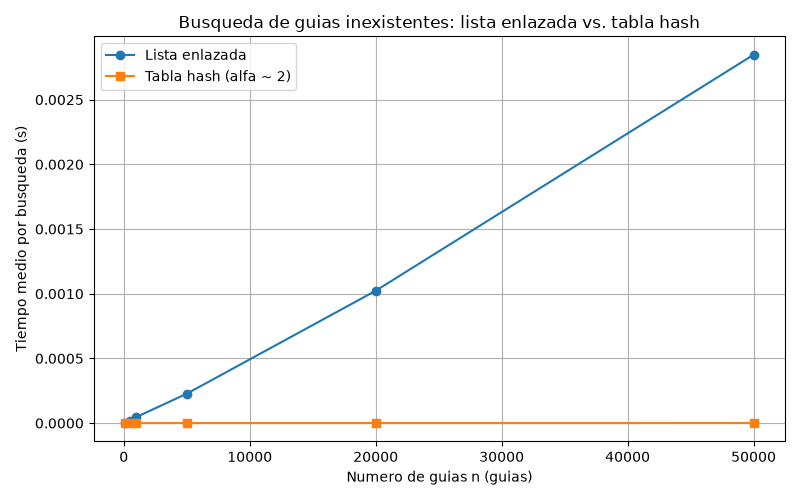
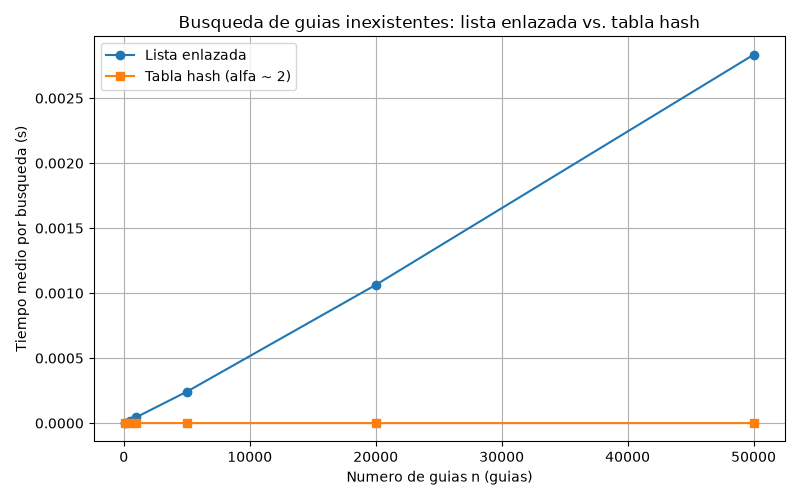
Agrega experimento B del efecto del factor de carga y su grafica

diff --git a/laboratorios/lab3-estructuras-datos/medicion.py b/laboratorios/lab3-estructuras-datos/medicion.py
@@ -4,10 +4,13 @@ Experimento A: mide con time.perf_counter el tiempo medio por busqueda de
 guias inexistentes en la lista y en la tabla (con alfa cercano a 2) para
 varios valores de n, verifica que ambas coinciden y produce
 graficas/lista_vs_tabla.png.
+
+Experimento B: con n fijo, construye tablas con distinto m para variar el
+factor de carga alfa, mide el tiempo medio por busqueda de guias
+inexistentes en cada una y produce graficas/tiempo_vs_alfa.png.
 """
 
 import random
-import statistics
 import time
 from pathlib import Path
 
@@ -19,8 +22,11 @@ import matplotlib.pyplot as plt
 from estructuras import ListaEnlazada, TablaHash
 
 TAMANOS = [100, 500, 1000, 5000, 20000, 50000]
+N_FIJO = 20000
+ALFAS = [0.25, 0.5, 1, 2, 4, 10]
 BUSQUEDAS = 200
 REPETICIONES = 3
+REPETICIONES_TABLA = 51
 MUESTRA_VERIFICACION = 100
 SEMILLA = 2026
 ESTADOS = ["en bodega", "en reparto", "entregado"]
@@ -144,8 +150,9 @@ def medir_busquedas(
 ) -> float:
     """Mide el tiempo medio por busqueda sobre una estructura.
 
-    Cronometra solo el ciclo de busquedas, repite la medicion y toma la
-    mediana para reducir el ruido del sistema operativo.
+    Cronometra solo el ciclo de busquedas, repite la medicion y toma el
+    minimo, que es la repeticion menos afectada por el ruido del sistema
+    operativo.
 
     Args:
         estructura: lista enlazada o tabla hash donde se busca.
@@ -153,7 +160,8 @@ def medir_busquedas(
         repeticiones: cuantas veces se repite la medicion completa.
 
     Returns:
-        La mediana del tiempo medio por busqueda, en segundos.
+        El menor tiempo medio por busqueda entre las repeticiones, en
+        segundos.
     """
     muestras = []
     for _ in range(repeticiones):
@@ -161,7 +169,7 @@ def medir_busquedas(
         for guia in guias:
             estructura.buscar(guia)
         muestras.append((time.perf_counter() - inicio) / len(guias))
-    return statistics.median(muestras)
+    return min(muestras)
 
 
 def graficar_lista_vs_tabla(
@@ -203,7 +211,7 @@ def experimento_a() -> None:
         inexistentes = generar_guias_inexistentes(existentes, BUSQUEDAS)
 
         t_lista = medir_busquedas(lista, inexistentes, REPETICIONES)
-        t_tabla = medir_busquedas(tabla, inexistentes, REPETICIONES)
+        t_tabla = medir_busquedas(tabla, inexistentes, REPETICIONES_TABLA)
         tiempos_lista.append(t_lista)
         tiempos_tabla.append(t_tabla)
         print(
@@ -215,11 +223,62 @@ def experimento_a() -> None:
     print(f"Grafica guardada en {CARPETA_GRAFICAS / 'lista_vs_tabla.png'}")
 
 
+def graficar_tiempo_vs_alfa(alfas: list[float], tiempos: list[float]) -> None:
+    """Dibuja el tiempo medio por busqueda de la tabla frente a alfa.
+
+    Args:
+        alfas: factores de carga medidos.
+        tiempos: tiempo medio por busqueda en cada tabla (s).
+    """
+    microsegundos = [t * 1e6 for t in tiempos]
+    plt.figure(figsize=(8, 5))
+    plt.plot(
+        alfas, microsegundos, marker="s", color="tab:orange",
+        label=f"Tabla hash (n = {N_FIJO})",
+    )
+    plt.xlabel("Factor de carga alfa = n / m (guias por casilla)")
+    plt.ylabel("Tiempo medio por busqueda (microsegundos)")
+    plt.title("Tabla hash: tiempo de busqueda de guias inexistentes vs. alfa")
+    plt.legend()
+    plt.grid(True)
+    plt.tight_layout()
+    plt.savefig(CARPETA_GRAFICAS / "tiempo_vs_alfa.png")
+    plt.close()
+
+
+def experimento_b() -> None:
+    """Mide la tabla con n fijo y varios alfa, imprime y guarda la grafica."""
+    envios = generar_envios(N_FIJO)
+    existentes = {guia for guia, _ in envios}
+    inexistentes = generar_guias_inexistentes(existentes, BUSQUEDAS)
+
+    alfas_reales = []
+    tiempos = []
+    print(f"\nExperimento B: efecto del factor de carga (n = {N_FIJO})")
+    print(f"{'alfa obj.':>9} {'m':>6} {'alfa':>6} {'tabla (us)':>12}")
+    for alfa in ALFAS:
+        m = primo_cercano(round(N_FIJO / alfa))
+        lista, tabla = construir_estructuras(envios, m)
+        verificar_coincidencia(lista, tabla, envios)
+
+        t_tabla = medir_busquedas(tabla, inexistentes, REPETICIONES_TABLA)
+        alfas_reales.append(tabla.factor_carga())
+        tiempos.append(t_tabla)
+        print(
+            f"{alfa:>9} {m:>6} {tabla.factor_carga():>6.2f}"
+            f" {t_tabla * 1e6:>12.3f}"
+        )
+
+    graficar_tiempo_vs_alfa(alfas_reales, tiempos)
+    print(f"Grafica guardada en {CARPETA_GRAFICAS / 'tiempo_vs_alfa.png'}")
+
+
 def main() -> None:
     """Ejecuta los experimentos de la Parte 2."""
     if not CARPETA_GRAFICAS.is_dir():
         CARPETA_GRAFICAS.mkdir(parents=True)
     experimento_a()
+    experimento_b()
 
 
 if __name__ == "__main__":
